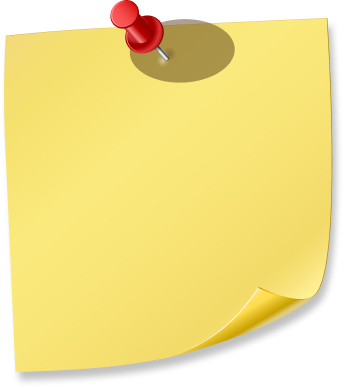
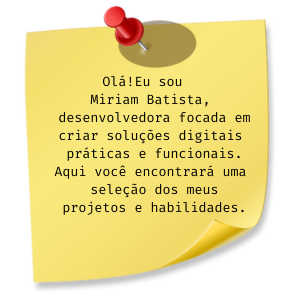
post-it editado - header ajustado

Changed region(s): [[0.0, 0.0, 0.99, 0.99]]

diff --git a/estilos/styles.css b/estilos/styles.css
@@ -2,9 +2,8 @@ html,
 body {
     width: 100%;
     display: flex;
-    background-image: url(image/bg_body.png);
+    background-image: url("../image/bg_body_resp.png");
     flex-direction: row;
-
 }
 
 header {
@@ -14,7 +13,7 @@ header {
     width: 18vw;
     left: 0px;
     margin: 0;
-    background-image: url(image/bg_body.png);
+    background-image: url(/image/bg_body.png);
     box-shadow: rgba(243, 81, 205, 0.25) 0px 50px 100px -20px, rgba(238, 143, 195, 0.3) 0px 30px 60px -30px, rgba(163, 7, 124, 0.35) 0px -2px 6px 0px inset;
     align-items: center;
 }
@@ -23,16 +22,18 @@ header {
     transform: rotate(-90deg);
     margin: 8%;
     margin: 78% 0% 0% 0%;
+    font-size: 3rem;
 }
 
 .material-icons {
-    margin-top: 70px;
+    margin-top: 90px;
     margin-bottom: 45px;
-
+    font-size: 2rem;
+}
     .nav {
         width: 15px;
     }
-}
+
 
 .lista_cabecalho {
     display: flex;
@@ -80,7 +81,7 @@ header {
 }
 
 .post-it {
-    width: 45vw;         
+    width: 65vw;         
     display: block;
     position: absolute;
     top: 20px;
@@ -89,7 +90,7 @@ header {
 
 .texto__apresentacao {
     position: absolute;
-    top: 73px;
+    top: 60px;
     left: 0;
     color: black;
     padding: 10px;
@@ -101,6 +102,6 @@ header {
 .foto-miriam {
     display:flex;
     width: 45vw;
-    margin-top:10vh;
+    margin-top:35vh;
     transform: rotate(5deg);
 }

diff --git a/index.html b/index.html
@@ -1,6 +1,5 @@
 <!DOCTYPE html>
 <html lang="pt-br">
-
 <head>
     <meta charset="UTF-8">
     <meta name="viewport" content="width=device-width, initial-scale=1.0">
@@ -8,6 +7,7 @@
     <link rel="stylesheet" href="estilos/styles.css">
     <title>Portfólio</title>
 </head>
+<body>
 <header class="container_cabecalho">
     <h1 class="titulo__cabecalho">Portfólio</h1>
     <i id="burguer" class="material-icons" onclick="clickMenu()">menu</i>
@@ -29,7 +29,7 @@
             <img class="post-it" src="image/Post-it-1.png" alt="post-it">
         </picture>
         <figcaption>
-            <pre class="texto__apresentacao">
+            <!-- <pre class="texto__apresentacao">
                 Sou Miriam Batista, 
                 desenvolvedora focada em
                 criar soluções digitais 
@@ -37,7 +37,7 @@
                 Aqui você encontrará uma 
                 seleção dos meus
                 projetos e habilidades.
-            </pre>
+            </pre> -->
         </figcaption>
     </figure>
     
